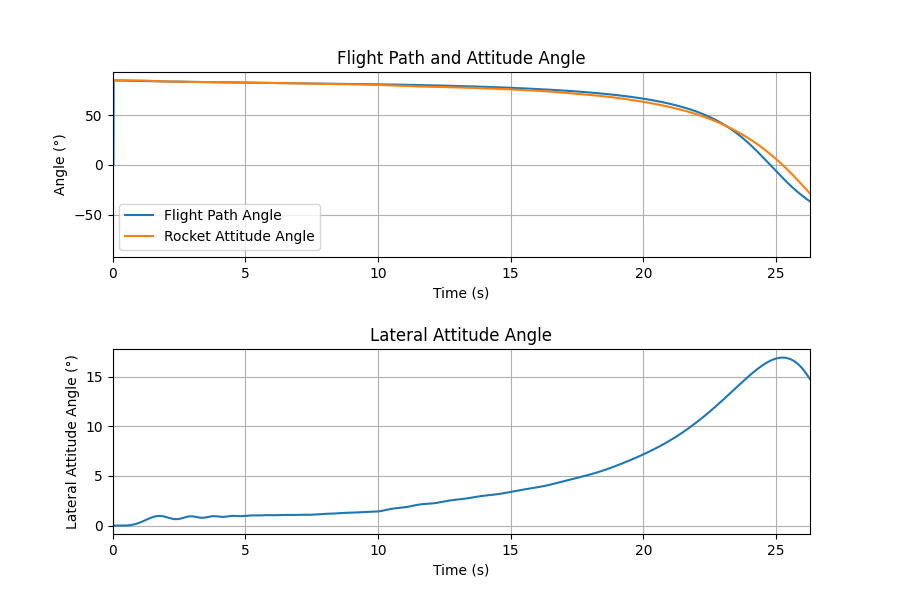
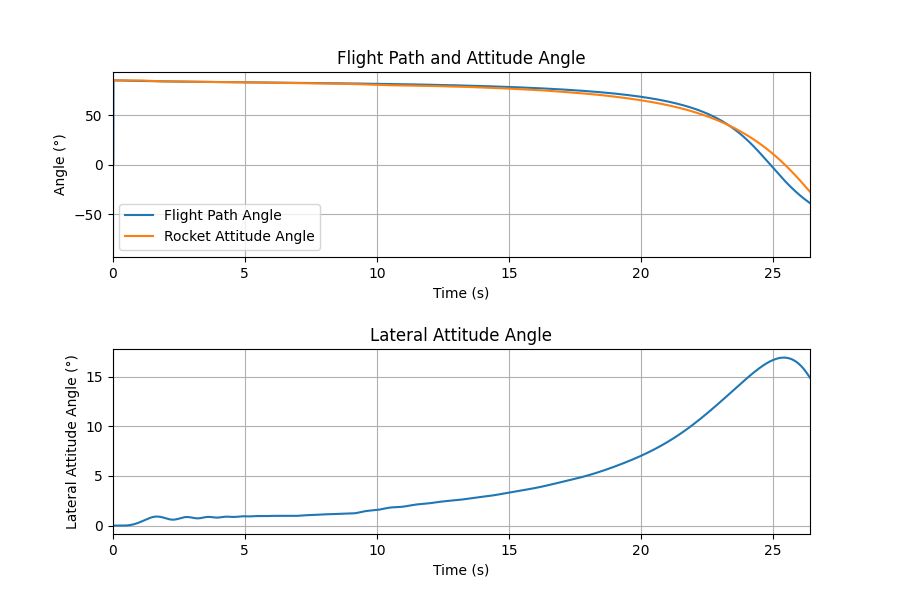
update-massa-modificada-inclinação-modificada

diff --git a/load_flight_from_json.py b/load_flight_from_json.py
@@ -131,16 +131,35 @@ def load_flight_from_json(config_path: str):
         # Check if the rocket has reached burnout
         if time < motor.burn_out_time:
             return None
-
-        if altitude_AGL < 500:
+        '''
+        if altitude_AGL < 0:
             air_brakes.deployment_level = 0
-        elif 500 < altitude_AGL < 1500:
-            air_brakes.deployment_level = 0.1
-        elif 1500 < altitude_AGL < 3000:
-            air_brakes.deployment_level = 0.2
-        elif altitude_AGL > 3000:
+        elif 0 < altitude_AGL <2000:
             air_brakes.deployment_level = 1
+        elif 2000 < altitude_AGL <= 3000:
+            air_brakes.deployment_level = 0.75
+        '''
+        new_deployment_level = 0
 
+        if time <= 11.4:
+            new_deployment_level = 1
+        else:
+            new_deployment_level = (
+                -0.002906 * np.power(time, 3)
+                + 0.1497 * np.power(time, 2)
+                + -2.563 * time
+                + 14.96
+            )
+
+        if time > 19.6:
+            new_deployment_level = 0
+
+        if time < 3.8:
+            new_deployment_level = 0
+
+        air_brakes.deployment_level = new_deployment_level
+
+            
         '''
         # If below 1500 meters above ground level, air_brakes are not deployed
         if altitude_AGL < 1500:
